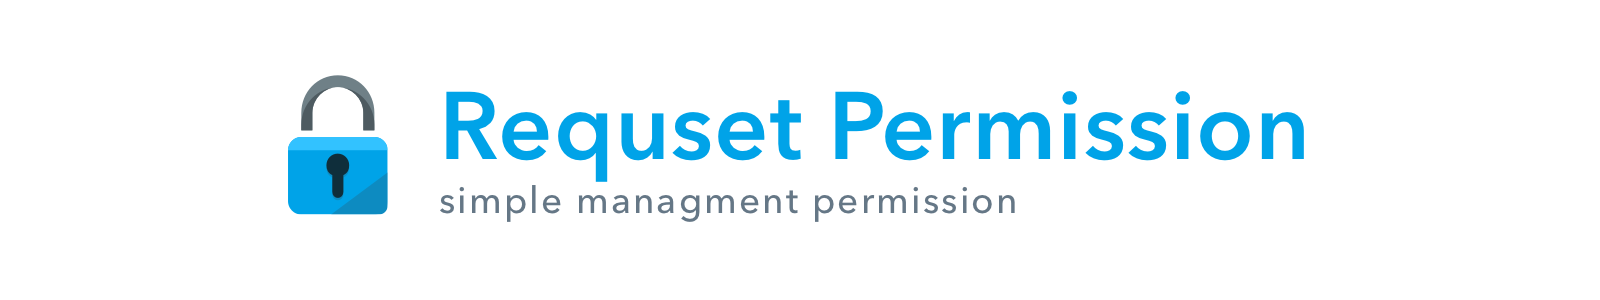
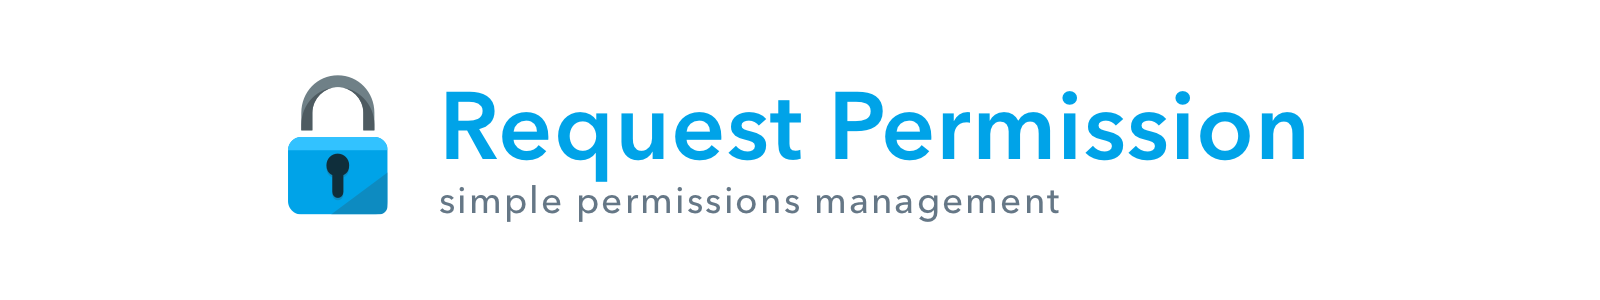
Update Readme

Changed region(s): [[0.3438, 0.63, 0.6875, 0.75], [0.4062, 0.36, 0.5, 0.54]]

diff --git a/README.md b/README.md
@@ -73,7 +73,7 @@ RequestPermission is released under the MIT license. Check LICENSE.md for detail
 ## Other
 ![](/resources/request-permission - powered-by-sparrow.png)
 
-In the project you can find my library [Sparrow](https://github.com/IvanVorobei/Sparrow). It’s a library, на основе которой написан мождуль. К сожалению, чтобы сэкономить время в разработке, я писал RequsetPermission используя эту библиотеку. Не волнуйтесь, внутри только SWift файлы и куча полезных вещей. Может быть вам понарвится) 
+In the project you can find my library [Sparrow](https://github.com/IvanVorobei/Sparrow). It's a library, on which the module is written. Unfortunately, to save time in development, I wrote RequestPermission using this library. Don't worry, within just Swift files and a lot of useful things. Maybe you will like it:)
 
 ## Contact
  
